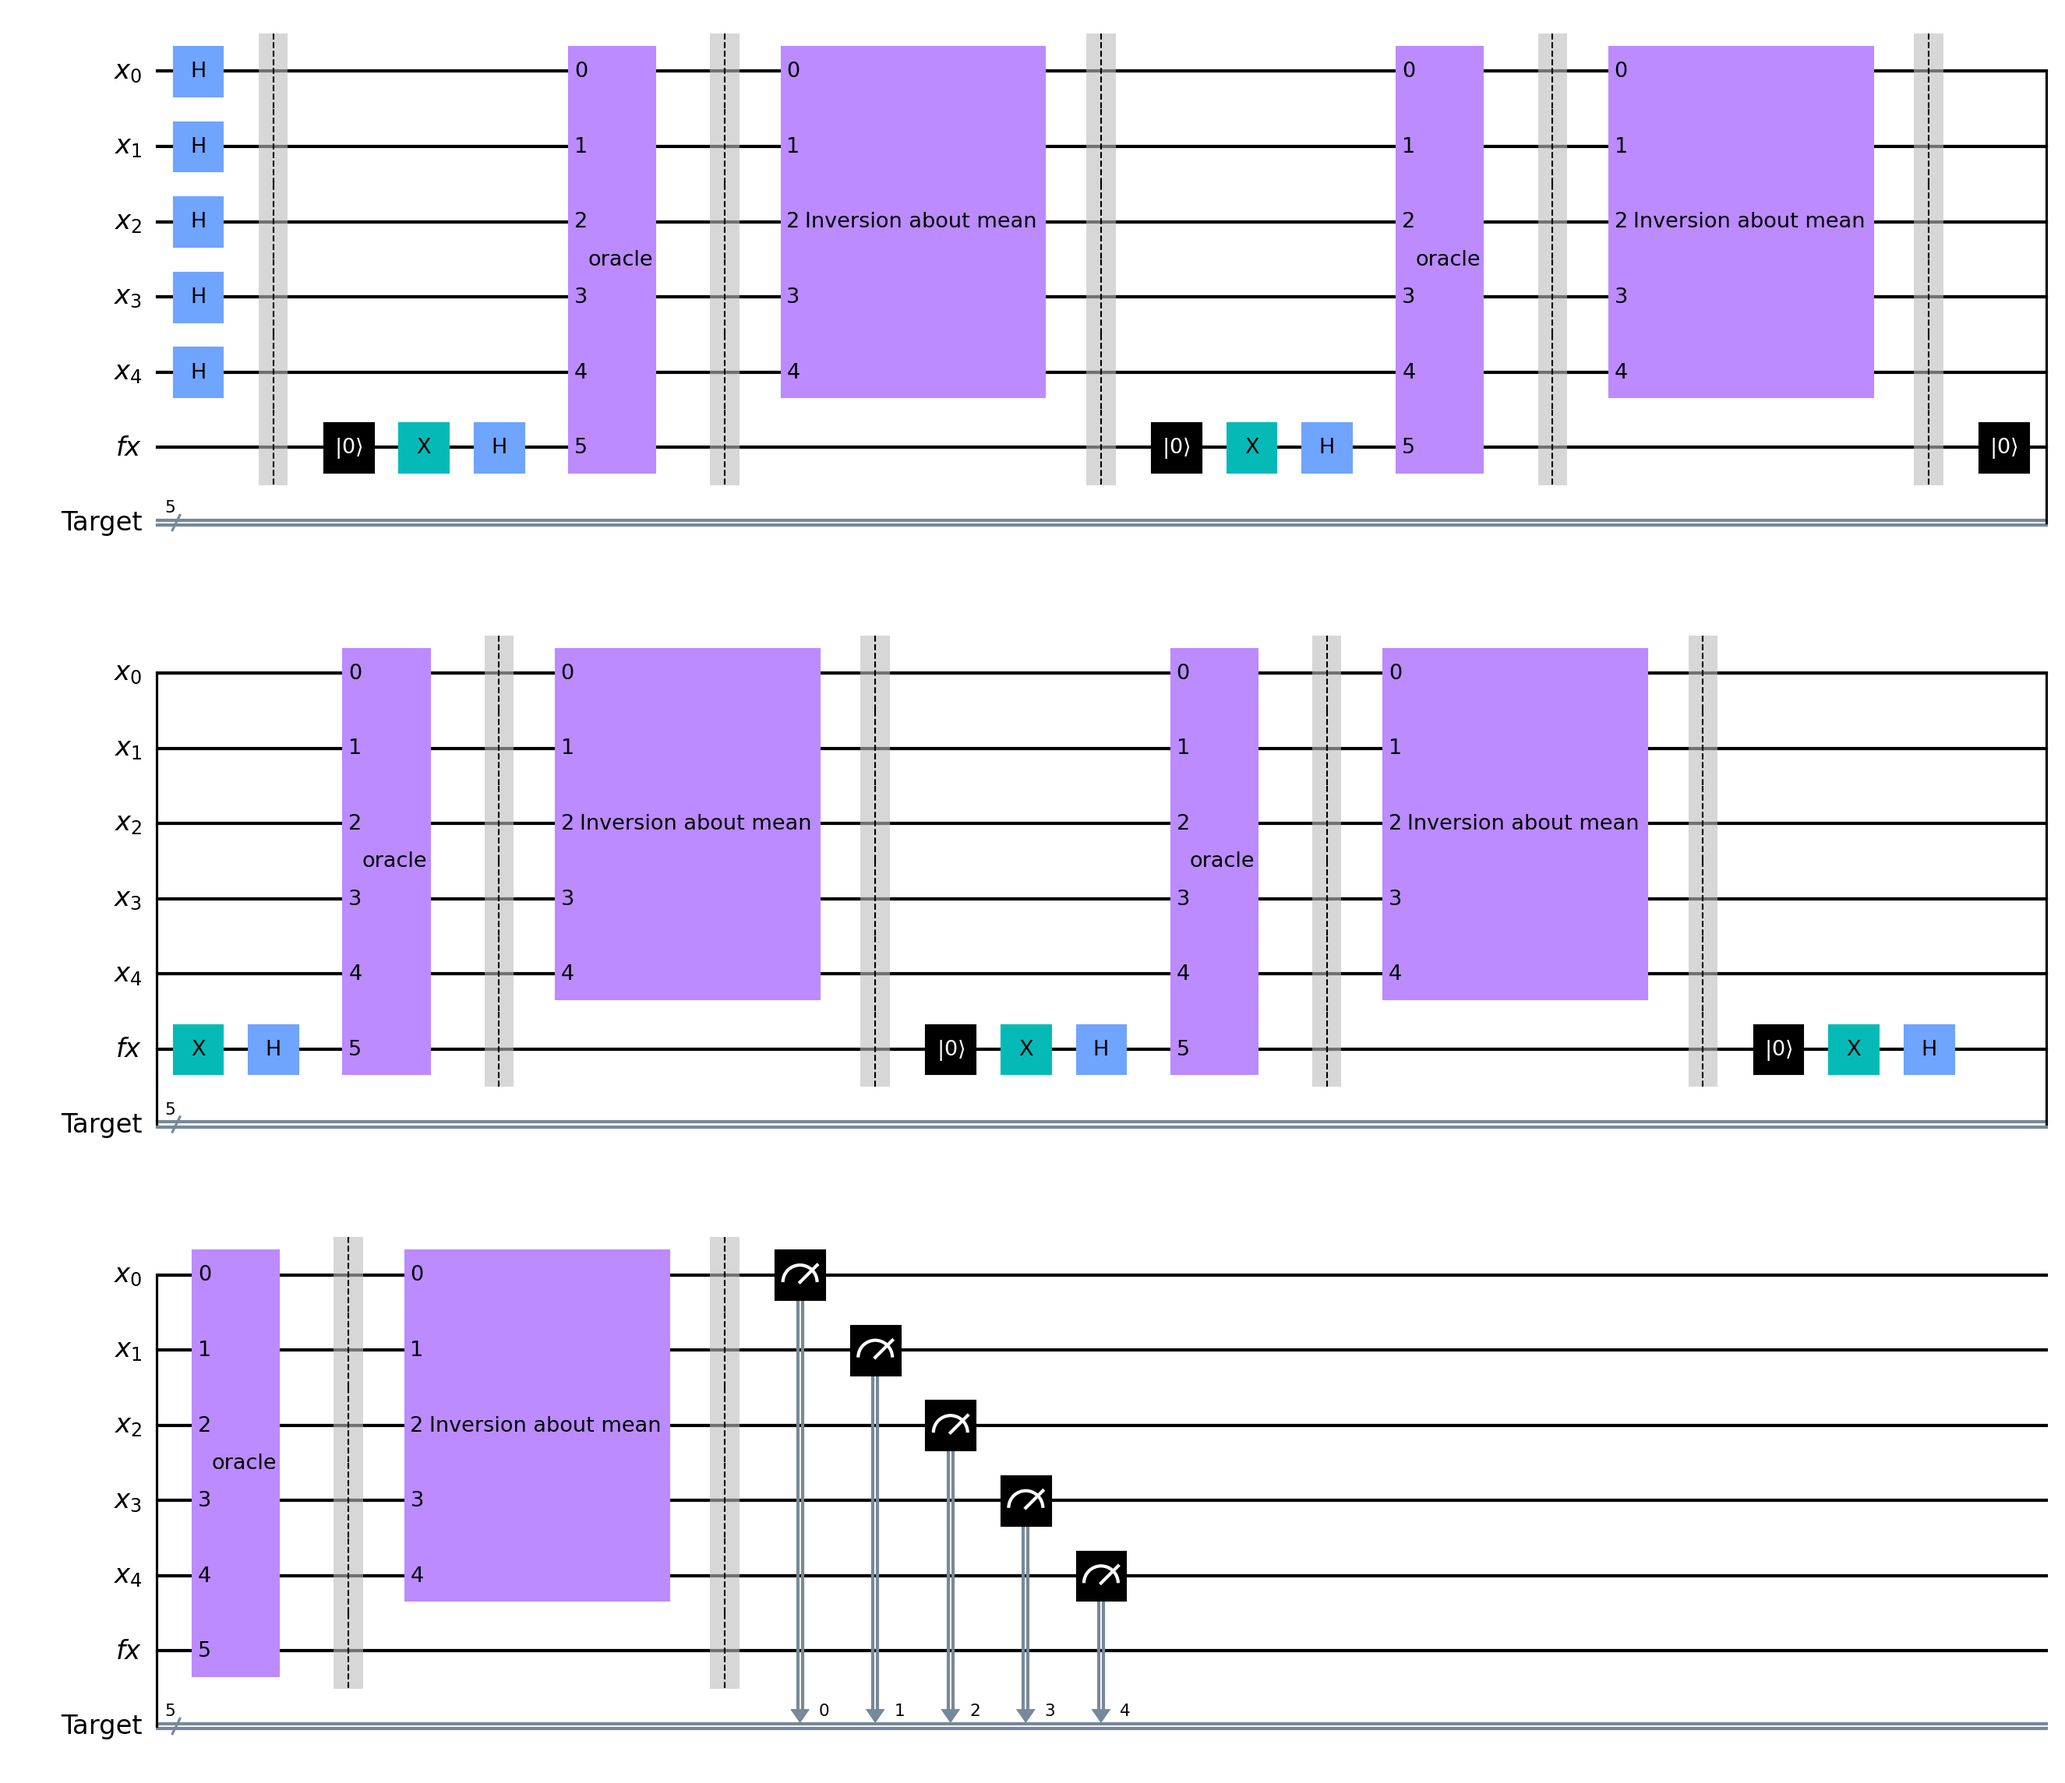
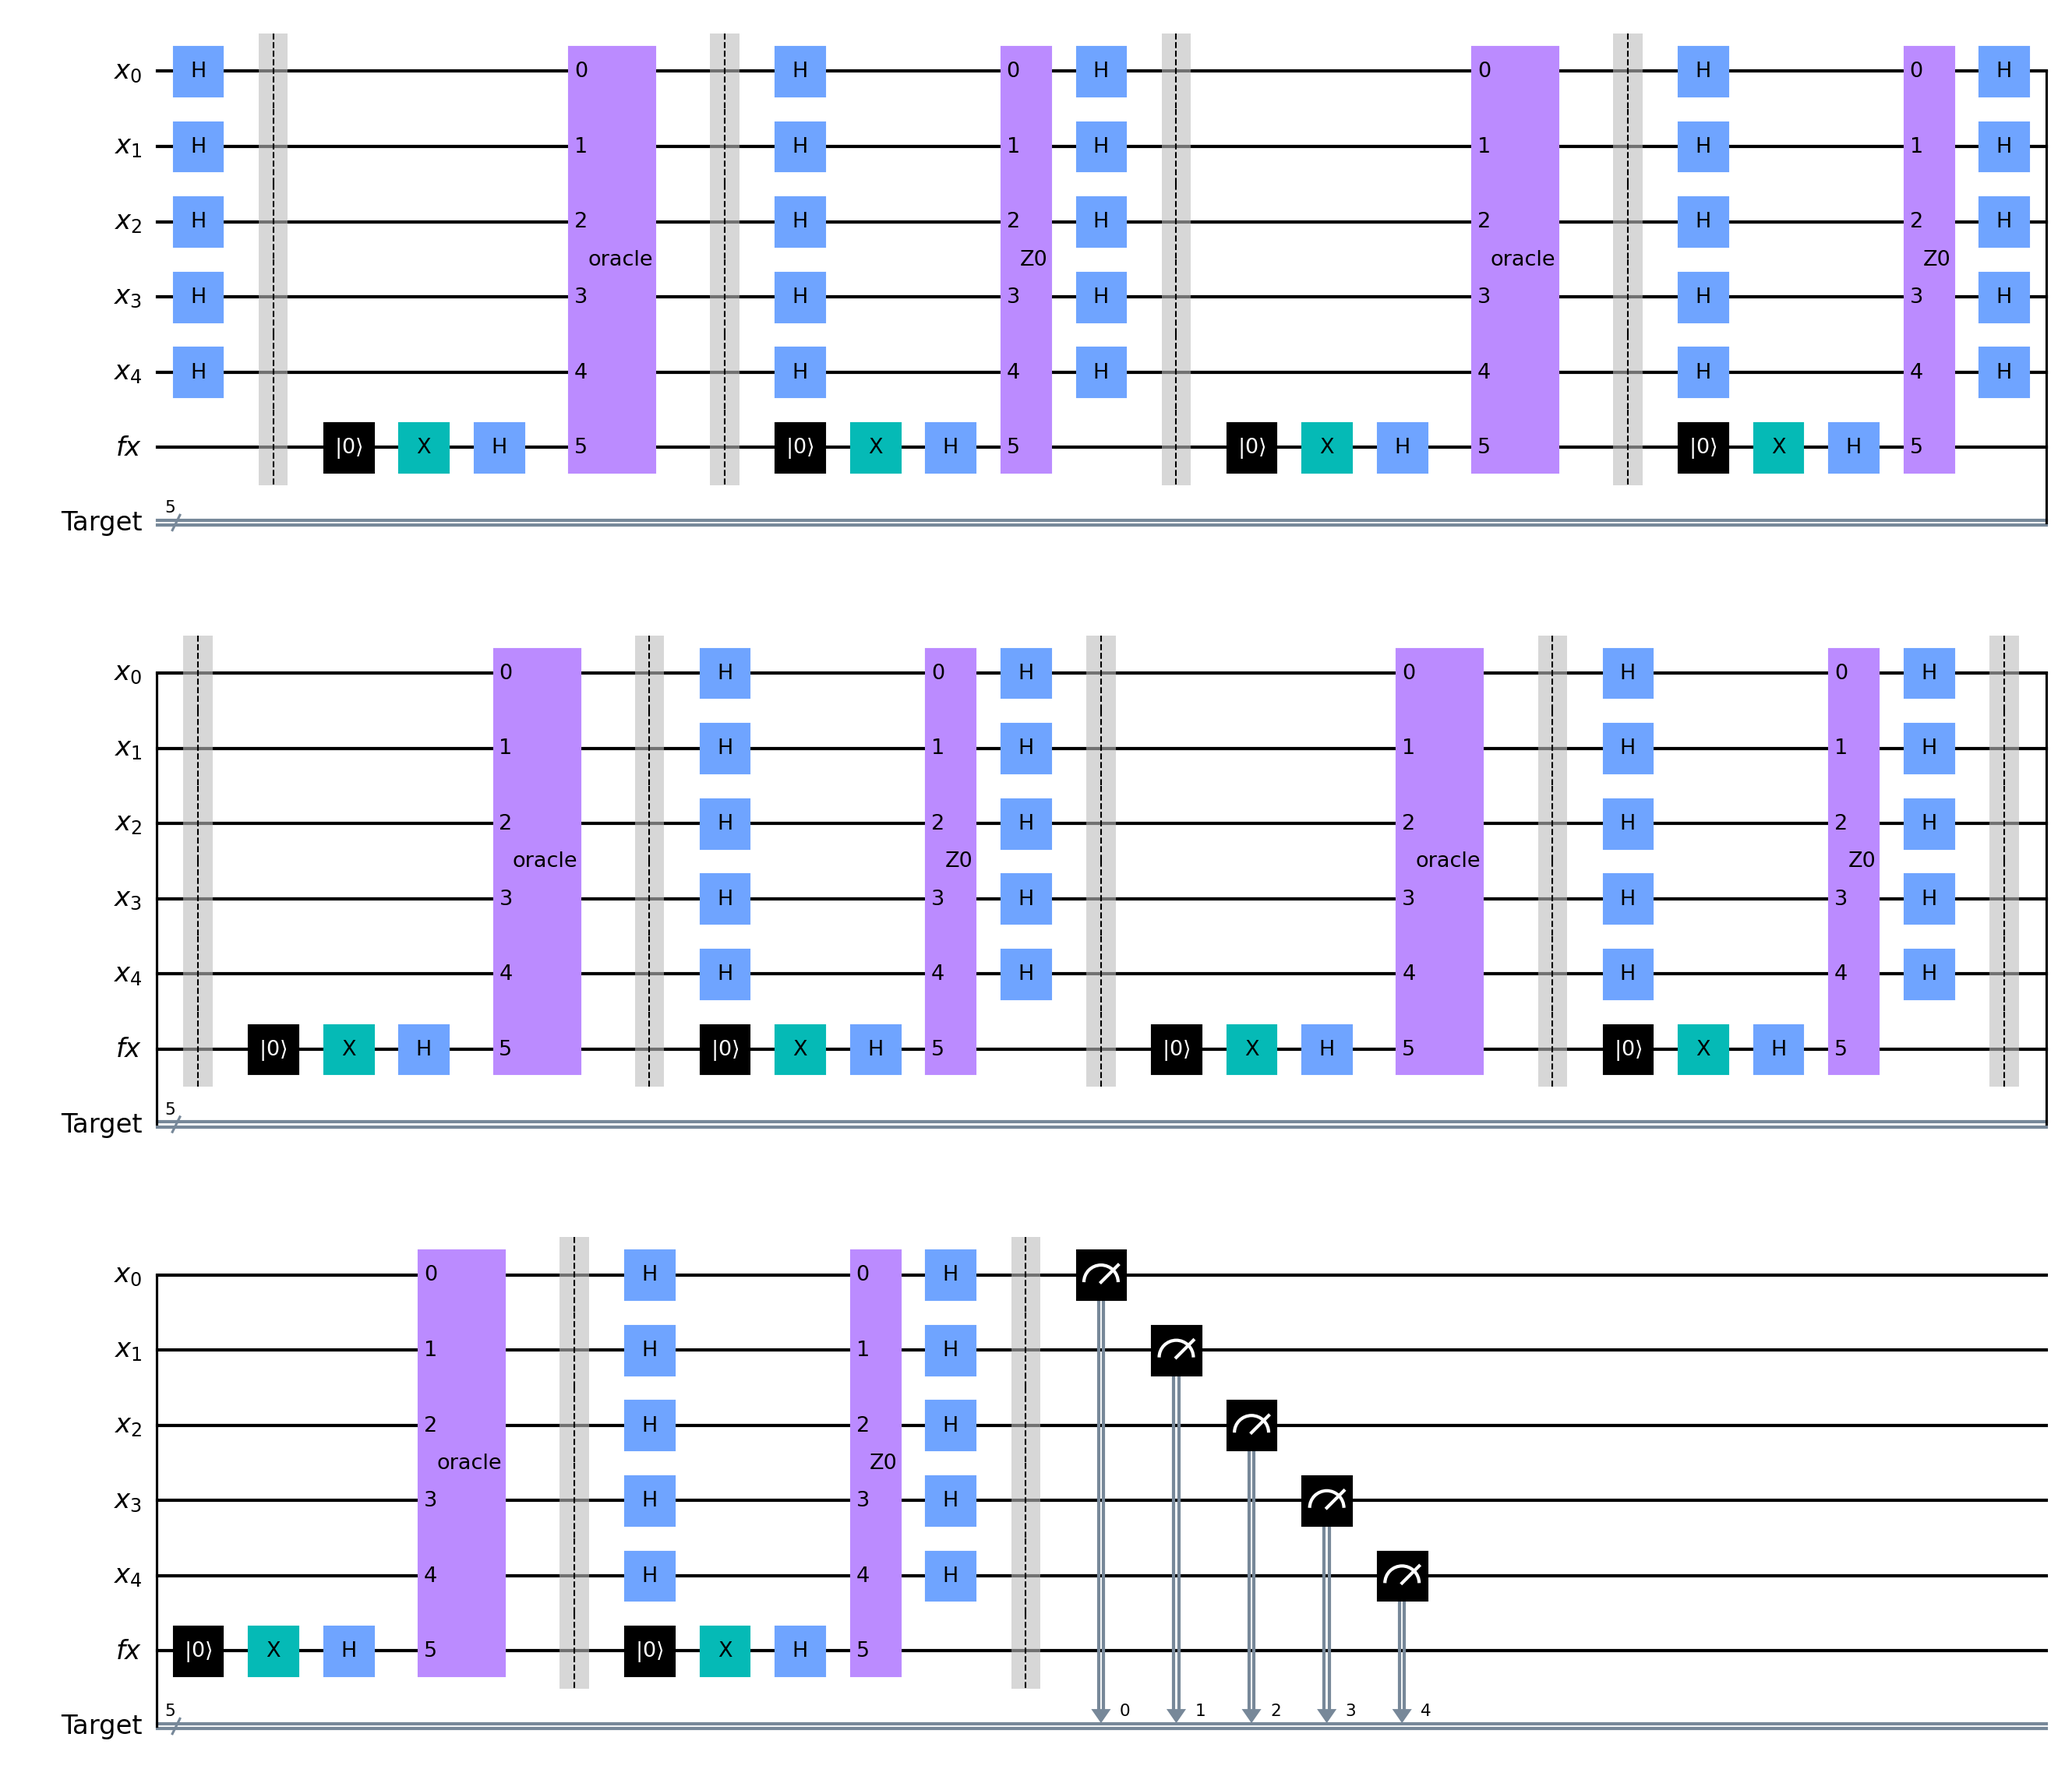
Q2 with desired version of diffuser done by using gates, far better results but not at 100 %

diff --git a/TP2/grover.py b/TP2/grover.py
@@ -4,9 +4,11 @@ from qiskit_aer import QasmSimulator
 from qiskit.visualization import plot_histogram
 import qiskit.quantum_info as qi
 from oracle import oracle
+from Z0 import Z0
 
 target = '01101'
 curr_oracle = oracle(target)
+z0 = Z0(target)
 
 # creating inversion about mean operator
 A = [[1 / (2 ** len(target)) for i in range(2 ** len(target))] for j in range(2 ** len(target))]
@@ -29,11 +31,16 @@ for j in range(int((2 ** len(target)) ** (1 / 2))):
     grover.reset(ancilla)
     grover.x(ancilla)
     grover.h(ancilla)  # init fx to |->
-
     grover.append(curr_oracle, x[:] + ancilla[:])
     grover.barrier()
-    inversion_about_mean = qi.Operator(matrix.tolist())
-    grover.unitary(inversion_about_mean, x, label='Inversion about mean')
+
+    grover.reset(ancilla)
+    grover.x(ancilla)
+    grover.h(ancilla)  # init fx to |->
+
+    grover.h(x)
+    grover.append(z0, x[:] + ancilla[:])
+    grover.h(x)
     grover.barrier()
 
 # Map the quantum measurement to the classical bits

diff --git a/TP2/Z0.py b/TP2/Z0.py
@@ -1,0 +1,24 @@
+from qiskit import QuantumCircuit, QuantumRegister, ClassicalRegister
+from qiskit_aer import QasmSimulator
+
+
+def Z0(target):
+    # Create quantum program that find 01101 by reversing its phase
+    x = QuantumRegister(len(target), name='X')  # 5 qubits index 0 is the right most qubit
+    ancilla = QuantumRegister(1, name='fx')  # has to be init to |->
+    z0 = QuantumCircuit(x, ancilla, name='Z0')
+
+    # set x qubits so that the target will control the gate
+    for i in range(len(target)):
+        z0.x(x[i])
+
+    z0.mct(x[:], ancilla)  # automatically we get a kickback if |0> cause ancilla was in |->
+    z0.z(ancilla)  # switch phase to all qubits in the superposition
+
+    # reset x qubits to their original state
+    for i in range(len(target)):
+        z0.x(x[i])
+
+    z0.to_gate()
+
+    return z0
